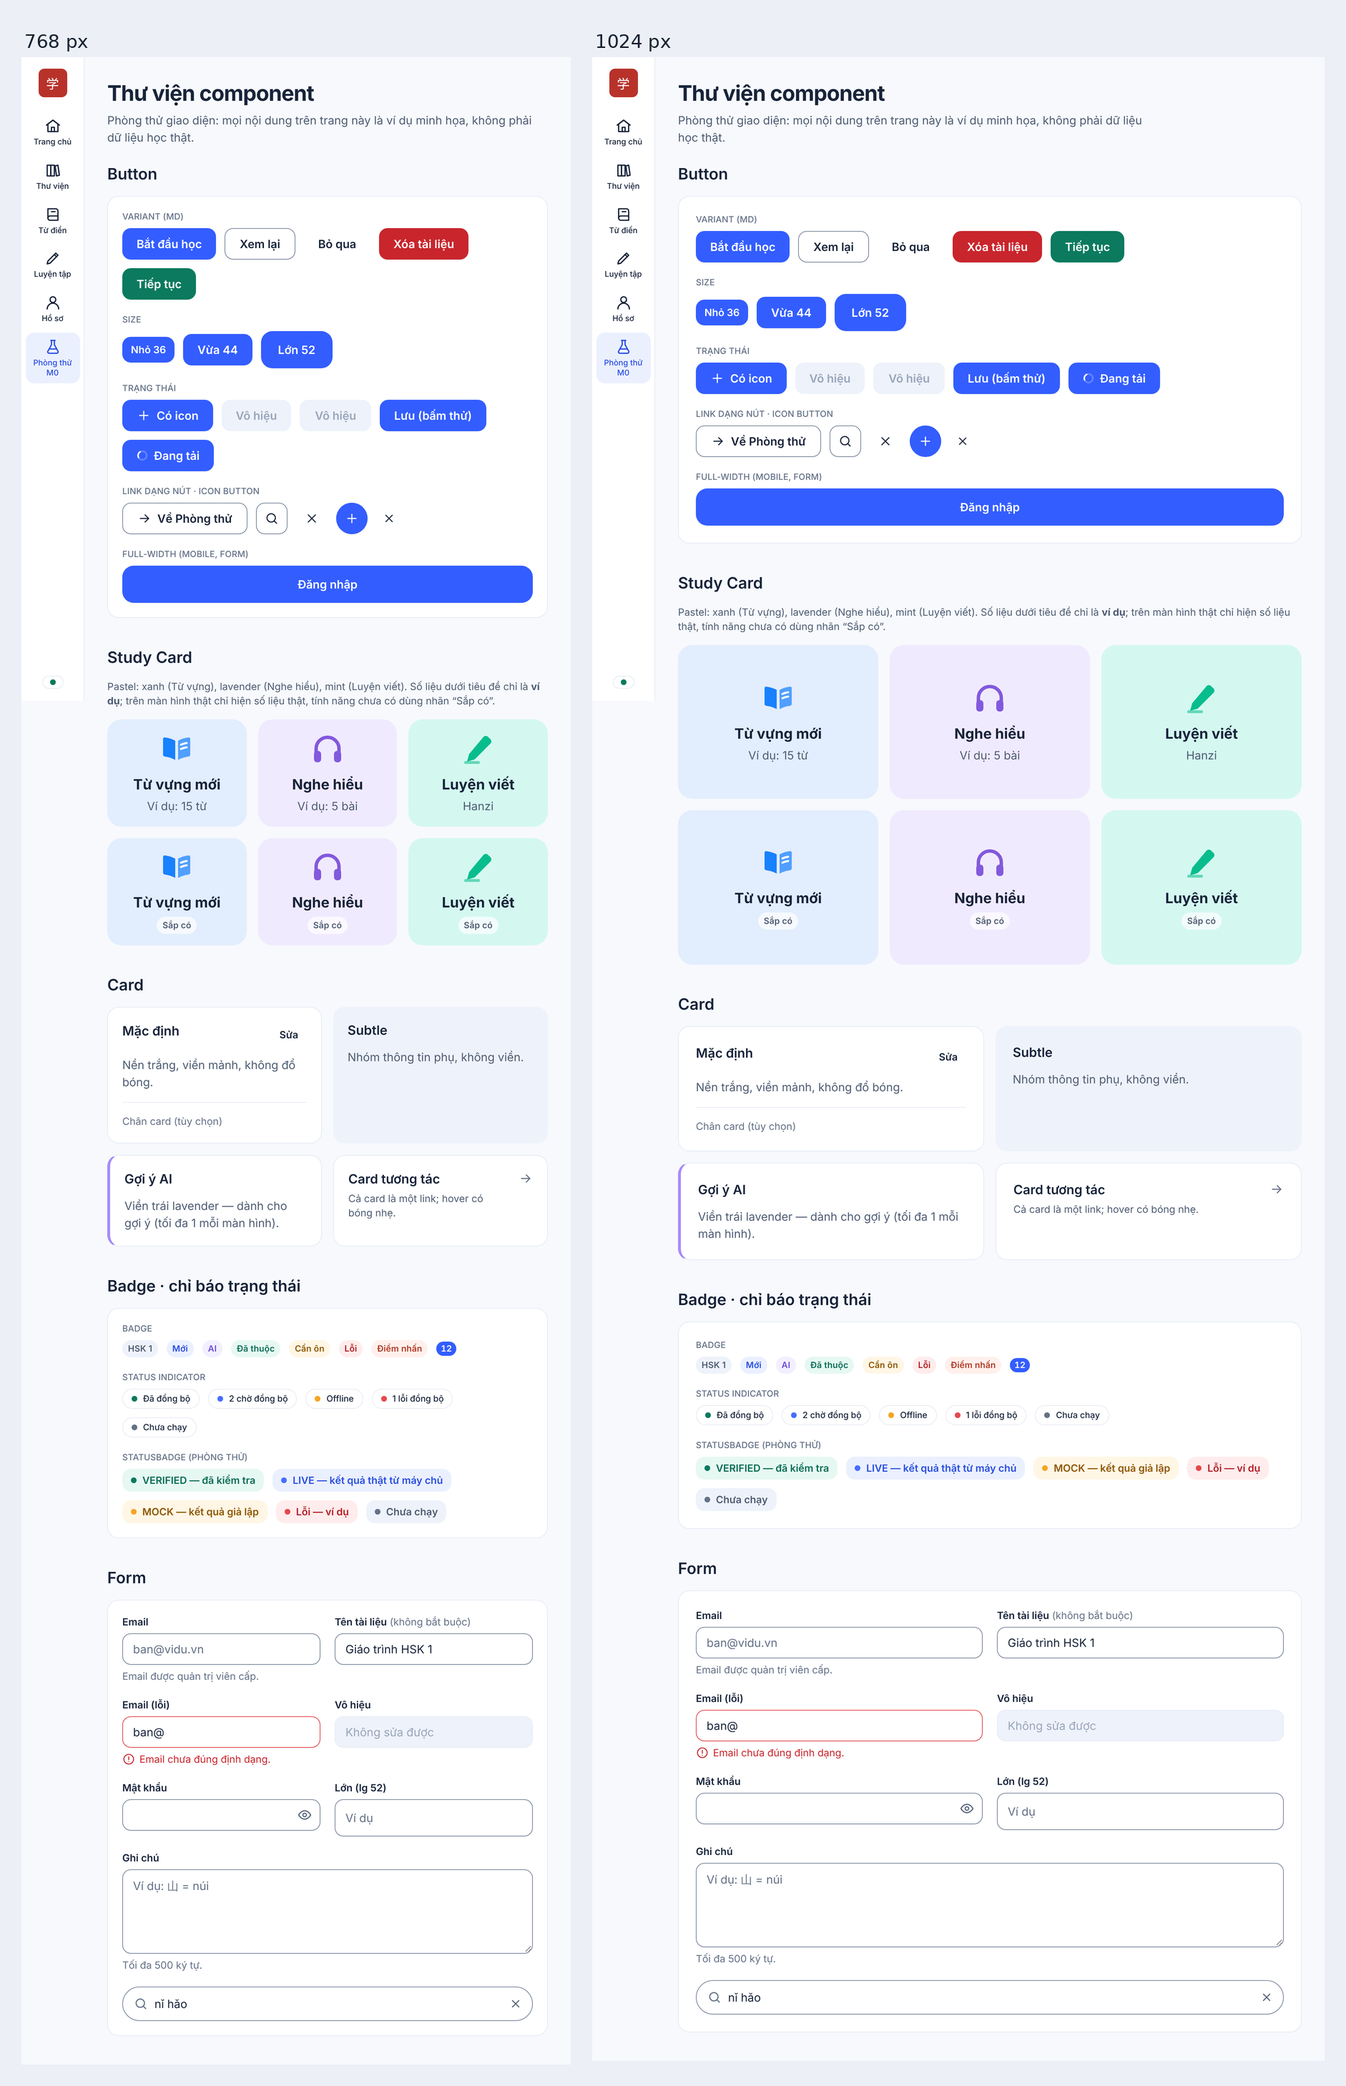
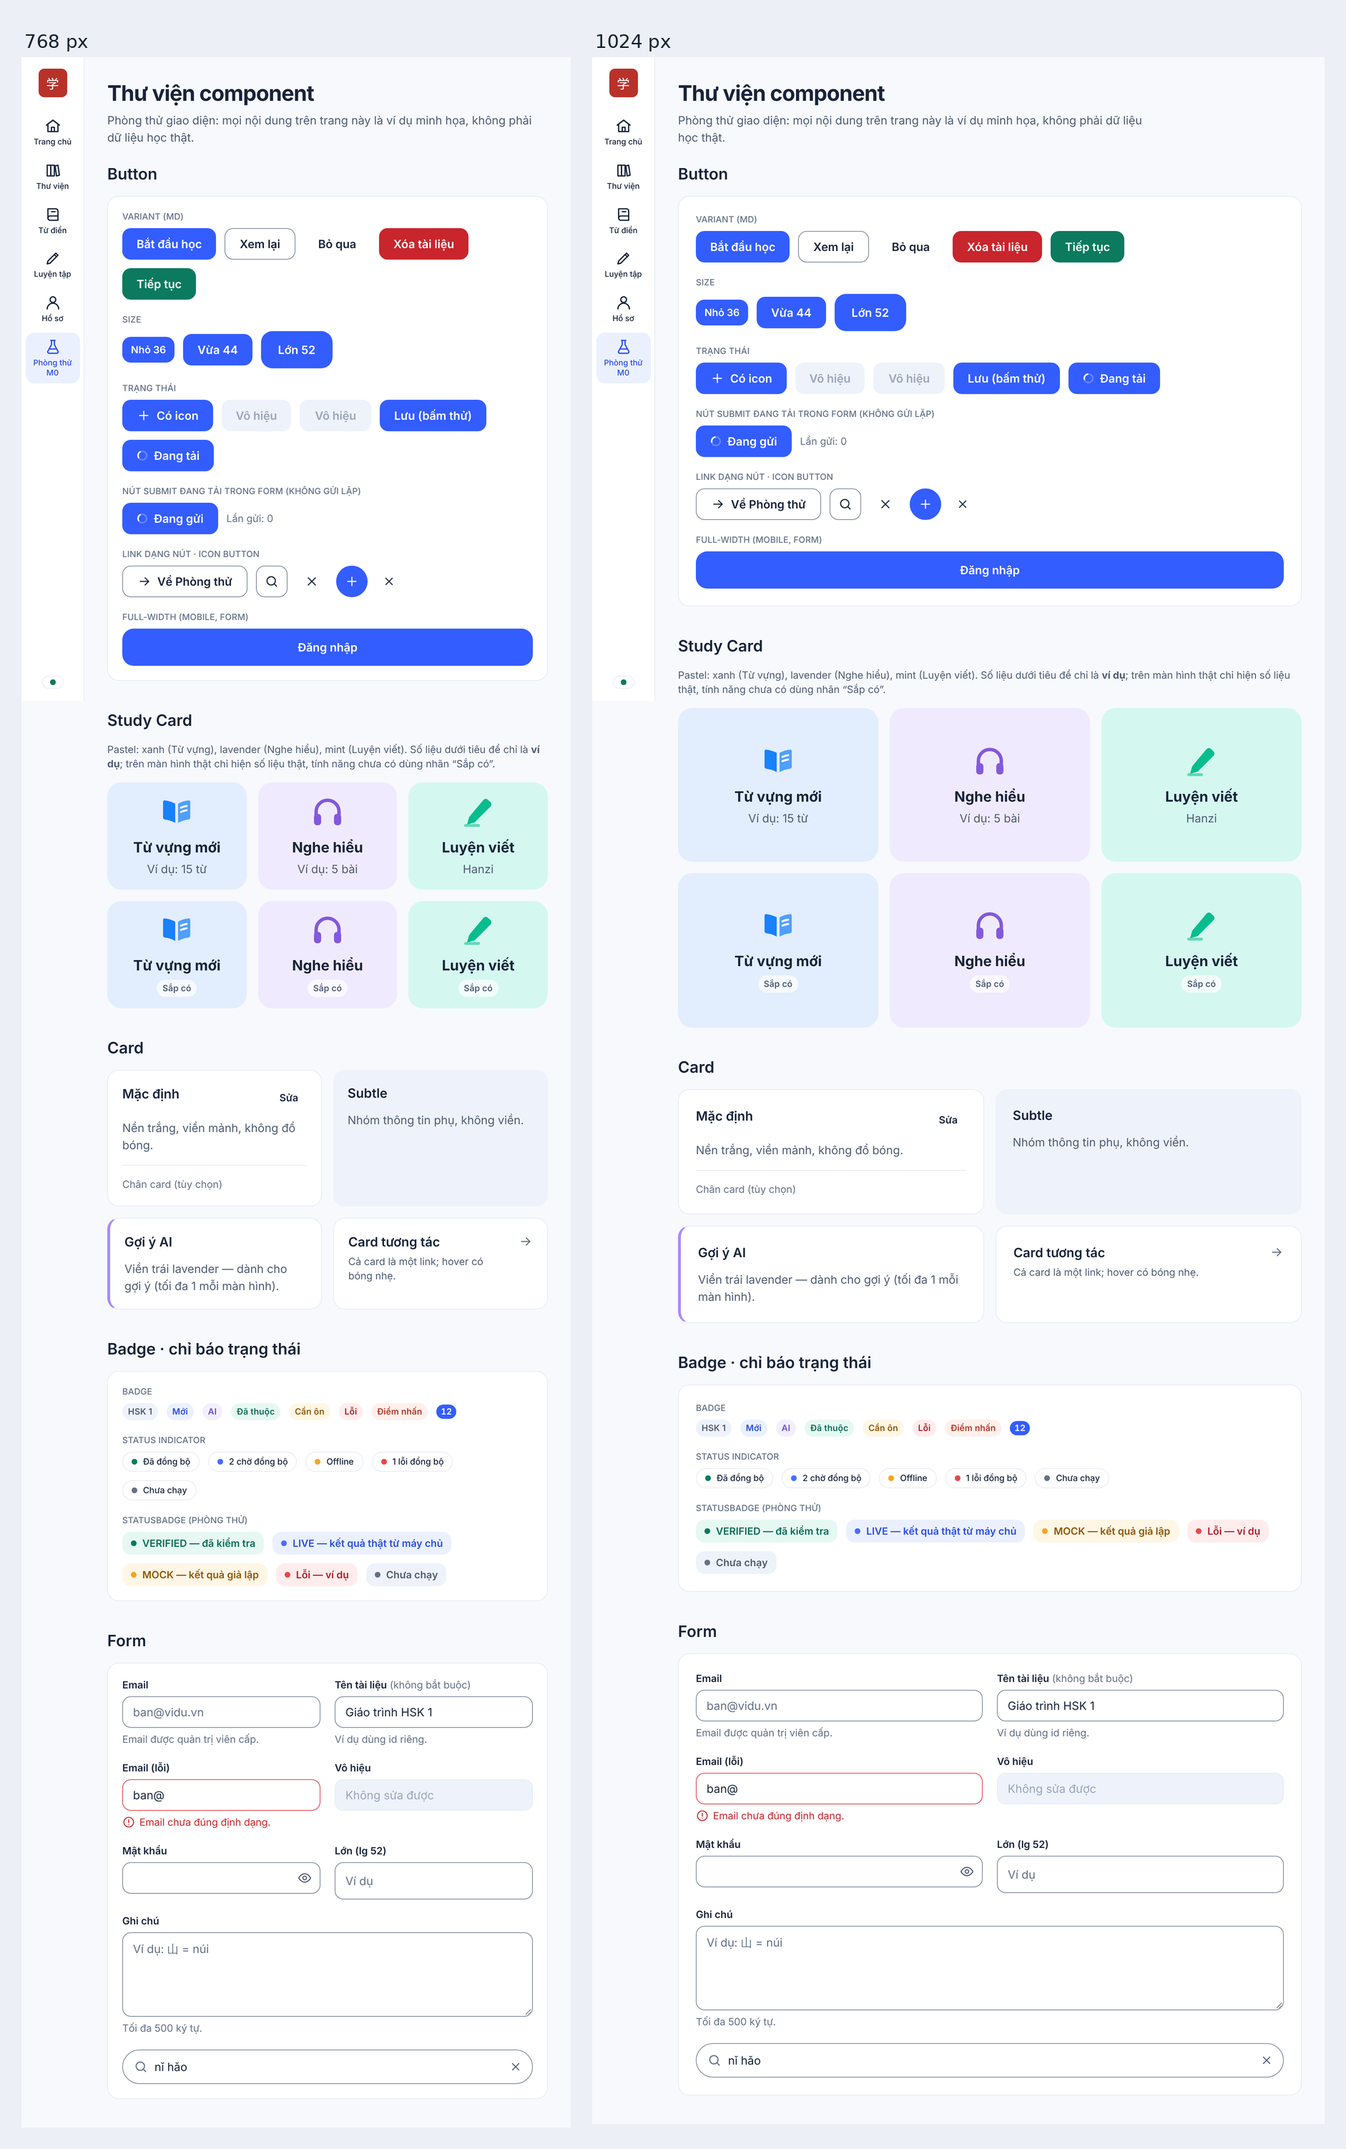
fix(web): UI-2 independent review — field ids, search focus, loading test, transitions
Important findings fixed (independent review of PR #5):
- I1 Field: a caller-provided id now wins in useFieldIds, so label htmlFor,
  hint/error ids and the password toggle's aria-controls stay linked.
- I2 SearchInput: clearing via the button returns focus to the input
  (the button unmounts); Escape also stops propagation (no dialog close).
- I3 Loading test could not fail: gallery counts clicks (data-clicks) and
  has a loading submit button in a form (data-submits); E2E asserts one
  handler run and zero submits by click/Enter/Space. Verified by mutation
  (removing the guard makes the test fail). Forced clicks are centred so
  the fixed phone bottom nav cannot intercept them.
- I4 Transitions list scale / translate (Tailwind 4 properties).
Minor: desktop must be hover-capable in the lavender test and shadow is
'none' before hover; exact accessible-name matches; icon stroke uses a
token; stale 'hồng' in UI_MIGRATION_PLAN; contrast pair label clarified.
Previews regenerated.

Claude-Session: https://claude.ai/code/session_013LqNKvrEyxwGX4BePDo76f

diff --git a/apps/web/e2e/ui2-primitives.spec.ts b/apps/web/e2e/ui2-primitives.spec.ts
@@ -87,13 +87,30 @@ test('buttons: focus ring on keyboard focus, disabled, loading blocks repeat', a
   await expect(page.getByTestId('btn-disabled')).toBeDisabled();
 
   const save = page.getByTestId('btn-loading');
+  await expect(save).toHaveAttribute('data-clicks', '0');
   await save.click();
   await expect(save).toHaveAttribute('aria-busy', 'true');
   await expect(save).toContainText('Đang lưu');
-  // Same width while loading (no layout jump) and a second click does not restart it.
+  await expect(save).toHaveAttribute('data-clicks', '1');
+  // A second click while loading must not run the handler again. Centre the button first: a
+  // forced click uses coordinates, and on phones the fixed bottom nav may cover the button.
+  await save.evaluate((el) => el.scrollIntoView({ block: 'center' }));
   await save.click({ force: true });
+  await expect(save).toHaveAttribute('data-clicks', '1');
   await expect(save).not.toHaveAttribute('aria-busy', 'true', { timeout: 4000 });
   await expect(save).toContainText('Lưu (bấm thử)');
+  await expect(save).toHaveAttribute('data-clicks', '1');
+
+  // A loading submit button never submits its form: not by click, not by Enter (implicit submit).
+  const form = page.getByTestId('loading-form');
+  const submit = page.getByTestId('btn-loading-submit');
+  await expect(submit).toHaveAttribute('aria-busy', 'true');
+  await submit.evaluate((el) => el.scrollIntoView({ block: 'center' }));
+  await submit.click({ force: true });
+  await submit.focus();
+  await page.keyboard.press('Enter');
+  await page.keyboard.press('Space');
+  await expect(form).toHaveAttribute('data-submits', '0');
 });
 
 test('form: label, hint and error are wired for assistive tech', async ({ page }) => {
@@ -105,6 +122,12 @@ test('form: label, hint and error are wired for assistive tech', async ({ page }
   const bad = page.getByTestId('field-error');
   await expect(bad).toHaveAttribute('aria-invalid', 'true');
   await expect(bad).toHaveAccessibleDescription('Email chưa đúng định dạng.');
+
+  // A caller-provided id is kept AND still linked to the label and the hint.
+  const own = page.locator('#ten-tai-lieu');
+  await expect(own).toHaveAccessibleName(/Tên tài liệu/);
+  await expect(own).toHaveAccessibleDescription('Ví dụ dùng id riêng.');
+  await expect(page.locator('label[for="ten-tai-lieu"]')).toHaveCount(1);
 
   // Font size ≥ 16 px so iOS does not zoom on focus.
   expect(
@@ -118,11 +141,11 @@ test('password input: show / hide toggle by mouse and keyboard', async ({ page }
   await expect(pw).toHaveAttribute('type', 'password');
   await expect(pw).toHaveAttribute('autocomplete', 'current-password');
   await pw.fill('mat-khau-vi-du');
-  const toggle = page.getByRole('button', { name: 'Hiện mật khẩu' });
+  const toggle = page.getByRole('button', { name: 'Hiện mật khẩu', exact: true });
   await expect(toggle).toHaveAttribute('aria-pressed', 'false');
   await toggle.click();
   await expect(pw).toHaveAttribute('type', 'text');
-  const hide = page.getByRole('button', { name: 'Ẩn mật khẩu' });
+  const hide = page.getByRole('button', { name: 'Ẩn mật khẩu', exact: true });
   await expect(hide).toHaveAttribute('aria-pressed', 'true');
   await hide.focus();
   await page.keyboard.press('Space');
@@ -135,8 +158,10 @@ test('search: clear button and Escape empty the field', async ({ page }) => {
   const search = page.getByTestId('field-search');
   await expect(search).toHaveAccessibleName('Tìm trong từ điển');
   await expect(search).toHaveValue('nǐ hǎo');
-  await page.getByRole('button', { name: 'Xóa nội dung tìm kiếm' }).click();
+  await page.getByRole('button', { name: 'Xóa nội dung tìm kiếm', exact: true }).click();
   await expect(search).toHaveValue('');
+  // The clear button disappears with the text; keyboard focus returns to the field.
+  await expect(search).toBeFocused();
   await search.fill('shān');
   await search.press('Escape');
   await expect(search).toHaveValue('');
@@ -175,7 +200,7 @@ test('study cards stay inside their grid at 320 px (no overlap / clipping)', asy
 
 test('study card "Nghe hiểu" is lavender: colours, hover, keyboard focus, coming soon', async ({
   page,
-}) => {
+}, testInfo) => {
   await open(page);
   const tile = page.getByTestId('study-lavender');
   await expect(tile).toHaveAccessibleName(/Nghe hiểu/);
@@ -186,7 +211,10 @@ test('study card "Nghe hiểu" is lavender: colours, hover, keyboard focus, comi
   expect(colours).toEqual({ bg: 'rgb(240, 234, 254)', icon: 'rgb(130, 89, 221)' });
 
   // Hover lift + shadow only where hover exists (Tailwind 4 `hover:` = @media (hover: hover)).
-  if (await page.evaluate(() => matchMedia('(hover: hover)').matches)) {
+  const hoverCapable = await page.evaluate(() => matchMedia('(hover: hover)').matches);
+  if (testInfo.project.name.endsWith('desktop')) expect(hoverCapable).toBe(true);
+  if (hoverCapable) {
+    expect(await tile.evaluate((el) => getComputedStyle(el).boxShadow)).toBe('none');
     await tile.hover();
     await expect.poll(() => tile.evaluate((el) => getComputedStyle(el).boxShadow)).not.toBe('none');
   }

diff --git a/apps/web/src/components/ui/Field.tsx b/apps/web/src/components/ui/Field.tsx
@@ -2,6 +2,7 @@
 
 import {
   useId,
+  useRef,
   useState,
   type InputHTMLAttributes,
   type ReactNode,
@@ -33,8 +34,10 @@ export const controlClasses =
   'disabled:cursor-not-allowed disabled:border-line disabled:bg-[var(--state-disabled-bg)] disabled:text-fg-disabled disabled:shadow-none ' +
   'read-only:bg-sunken';
 
-function useFieldIds(hint: unknown, error: unknown, describedBy?: string) {
-  const id = useId();
+function useFieldIds(hint: unknown, error: unknown, describedBy?: string, ownId?: string) {
+  // A caller-provided id wins, so <label htmlFor>, hint/error ids and aria-controls stay linked.
+  const generated = useId();
+  const id = ownId ?? generated;
   const hintId = hint ? `${id}-hint` : undefined;
   const errorId = error ? `${id}-error` : undefined;
   const ids = [describedBy, hintId, errorId].filter(Boolean).join(' ') || undefined;
@@ -94,12 +97,12 @@ export function Input({
   'aria-describedby': extra,
   ...props
 }: InputProps) {
-  const f = useFieldIds(hint, error, extra);
+  const f = useFieldIds(hint, error, extra, props.id);
   return (
     <FieldFrame {...{ label, hint, error, hideLabel, optional, className }} {...f}>
       <input
-        id={f.id}
         {...props}
+        id={f.id}
         aria-invalid={error ? true : props['aria-invalid']}
         aria-describedby={f.describedBy}
         className={`${controlClasses} ${size === 'lg' ? 'h-13' : 'h-11'}`}
@@ -119,13 +122,13 @@ export function Textarea({
   'aria-describedby': extra,
   ...props
 }: FieldProps & TextareaHTMLAttributes<HTMLTextAreaElement>) {
-  const f = useFieldIds(hint, error, extra);
+  const f = useFieldIds(hint, error, extra, props.id);
   return (
     <FieldFrame {...{ label, hint, error, hideLabel, optional, className }} {...f}>
       <textarea
-        id={f.id}
         rows={rows}
         {...props}
+        id={f.id}
         aria-invalid={error ? true : props['aria-invalid']}
         aria-describedby={f.describedBy}
         className={`${controlClasses} min-h-24 resize-y py-2.5 leading-6`}
@@ -148,16 +151,16 @@ export function PasswordInput({
   'aria-describedby': extra,
   ...props
 }: FieldProps & Omit<InputHTMLAttributes<HTMLInputElement>, 'type' | 'size'>) {
-  const f = useFieldIds(hint, error, extra);
+  const f = useFieldIds(hint, error, extra, props.id);
   const [visible, setVisible] = useState(false);
   return (
     <FieldFrame {...{ label, hint, error, hideLabel, optional, className }} {...f}>
       <div className="relative">
         <input
-          id={f.id}
           autoCapitalize="none"
           spellCheck={false}
           {...props}
+          id={f.id}
           type={visible ? 'text' : 'password'}
           aria-invalid={error ? true : props['aria-invalid']}
           aria-describedby={f.describedBy}
@@ -194,7 +197,8 @@ export function SearchInput({
     value: string;
     onValueChange: (value: string) => void;
   }) {
-  const f = useFieldIds(hint, undefined, extra);
+  const f = useFieldIds(hint, undefined, extra, props.id);
+  const inputRef = useRef<HTMLInputElement>(null);
   return (
     <FieldFrame {...{ label, hint, hideLabel, className }} {...f}>
       <div className="relative">
@@ -204,16 +208,18 @@ export function SearchInput({
           className="pointer-events-none absolute left-4 top-1/2 -translate-y-1/2 text-fg-subtle"
         />
         <input
-          id={f.id}
+          ref={inputRef}
           type="search"
           enterKeyHint="search"
           autoComplete="off"
           {...props}
+          id={f.id}
           value={value}
           onChange={(e) => onValueChange(e.target.value)}
           onKeyDown={(e) => {
             if (e.key === 'Escape' && value) {
               e.preventDefault();
+              e.stopPropagation(); // one Escape clears the field, it does not also close a dialog
               onValueChange('');
             }
             props.onKeyDown?.(e);
@@ -224,7 +230,11 @@ export function SearchInput({
         {value && (
           <button
             type="button"
-            onClick={() => onValueChange('')}
+            onClick={() => {
+              onValueChange('');
+              // The button unmounts once the field is empty: keep keyboard focus in the field.
+              inputRef.current?.focus();
+            }}
             aria-label="Xóa nội dung tìm kiếm"
             className="absolute right-0.5 top-1/2 flex size-11 -translate-y-1/2 items-center justify-center rounded-full text-fg-muted hover:bg-[var(--state-hover)] hover:text-fg"
           >

diff --git a/apps/web/app/lab/design/page.tsx b/apps/web/app/lab/design/page.tsx
@@ -46,6 +46,8 @@ function Row({ label, children }: { label: string; children: ReactNode }) {
 export default function DesignGallery() {
   const [query, setQuery] = useState('nǐ hǎo');
   const [saving, setSaving] = useState(false);
+  const [clicks, setClicks] = useState(0);
+  const [submits, setSubmits] = useState(0);
 
   return (
     <>
@@ -80,7 +82,9 @@ export default function DesignGallery() {
                 <Button
                   loading={saving}
                   data-testid="btn-loading"
+                  data-clicks={clicks}
                   onClick={() => {
+                    setClicks((n) => n + 1);
                     setSaving(true);
                     setTimeout(() => setSaving(false), 1500);
                   }}
@@ -88,6 +92,22 @@ export default function DesignGallery() {
                   {saving ? 'Đang lưu…' : 'Lưu (bấm thử)'}
                 </Button>
                 <Button loading>Đang tải</Button>
+              </Row>
+              <Row label="Nút submit đang tải trong form (không gửi lặp)">
+                <form
+                  data-testid="loading-form"
+                  data-submits={submits}
+                  onSubmit={(e) => {
+                    e.preventDefault();
+                    setSubmits((n) => n + 1);
+                  }}
+                  className="flex flex-wrap items-center gap-3"
+                >
+                  <Button type="submit" loading data-testid="btn-loading-submit">
+                    Đang gửi
+                  </Button>
+                  <span className="text-sm text-fg-subtle">Lần gửi: {submits}</span>
+                </form>
               </Row>
               <Row label="Link dạng nút · Icon button">
                 <ButtonLink
@@ -238,7 +258,13 @@ export default function DesignGallery() {
                 hint="Email được quản trị viên cấp."
                 data-testid="field-email"
               />
-              <Input label="Tên tài liệu" defaultValue="Giáo trình HSK 1" optional />
+              <Input
+                id="ten-tai-lieu"
+                label="Tên tài liệu"
+                defaultValue="Giáo trình HSK 1"
+                hint="Ví dụ dùng id riêng."
+                optional
+              />
               <Input
                 label="Email (lỗi)"
                 type="email"

diff --git a/apps/web/src/components/ui/Button.tsx b/apps/web/src/components/ui/Button.tsx
@@ -26,7 +26,7 @@ const SIZE: Record<ButtonSize, string> = {
 
 const BASE =
   'inline-flex shrink-0 select-none items-center justify-center whitespace-nowrap font-semibold ' +
-  'transition-[background-color,box-shadow,transform] duration-[var(--duration-fast)] ease-[var(--ease-standard)] ' +
+  'transition-[background-color,box-shadow,scale] duration-[var(--duration-fast)] ease-[var(--ease-standard)] ' +
   'active:scale-[0.98] motion-reduce:active:scale-100 ' +
   'disabled:pointer-events-none disabled:border-transparent disabled:bg-[var(--state-disabled-bg)] disabled:text-fg-disabled disabled:shadow-none ' +
   'aria-disabled:pointer-events-none aria-disabled:bg-[var(--state-disabled-bg)] aria-disabled:text-fg-disabled aria-disabled:shadow-none';

diff --git a/apps/web/src/components/ui/Card.tsx b/apps/web/src/components/ui/Card.tsx
@@ -186,7 +186,7 @@ export function StudyCard({
       <Link
         href={href}
         {...rest}
-        className={`${cls} transition-[box-shadow,transform] duration-[var(--duration-fast)] ease-[var(--ease-standard)] hover:-translate-y-0.5 hover:shadow-md active:translate-y-0 motion-reduce:hover:translate-y-0`}
+        className={`${cls} transition-[box-shadow,translate] duration-[var(--duration-fast)] ease-[var(--ease-standard)] hover:-translate-y-0.5 hover:shadow-md active:translate-y-0 motion-reduce:hover:translate-y-0`}
       >
         {body}
       </Link>

diff --git a/apps/web/src/components/icons.tsx b/apps/web/src/components/icons.tsx
@@ -106,7 +106,7 @@ export const BookOpenFilledIcon = (p: SVGProps<SVGSVGElement>) => (
     />
     <path
       d="M15 9.2c1.3-.6 2.6-1 4-1.2M15 12.2c1.3-.6 2.6-1 4-1.2"
-      stroke="#fff"
+      stroke="var(--surface-default)"
       strokeWidth="1.4"
       strokeLinecap="round"
     />

diff --git a/docs/design/UI_MIGRATION_PLAN.md b/docs/design/UI_MIGRATION_PLAN.md
@@ -173,7 +173,7 @@ Quy tắc cho mọi PR UI: phạm vi rõ, checklist QC (mục 8) và kết quả
 
 - `src/components/ui/`:
   - `Button` (primary / secondary / ghost / danger / success; sm 36 có vùng chạm 44, md 44, lg 52; hover, focus-visible, disabled, loading có spinner + `aria-busy` + chặn bấm lặp), `ButtonLink`, `IconButton` (bắt buộc `aria-label`).
-  - `Card` (default / subtle / highlight, có `title`, `action`, `footer`), `CardLink` (cả card là một link), **`StudyCard`** (pastel xanh / hồng / mint đo từ hình tham chiếu; chỉ nhận số liệu thật qua `meta`, tính năng chưa có dùng `comingSoon` → nhãn "Sắp có", không bấm được).
+  - `Card` (default / subtle / highlight, có `title`, `action`, `footer`), `CardLink` (cả card là một link), **`StudyCard`** (pastel xanh / lavender / mint — "Nghe hiểu" = lavender theo quyết định của chủ dự án; chỉ nhận số liệu thật qua `meta`, tính năng chưa có dùng `comingSoon` → nhãn "Sắp có", không bấm được).
   - `Badge` (7 biến thể), `CountBadge`, `StatusDot` (chỉ báo trạng thái chấm + chữ); `StatusBadge` dùng cùng token (giữ `role`, `data-status`, chữ của M0).
   - Form: `Input`, `Textarea`, `PasswordInput` (hiện/ẩn, `aria-pressed`), `SearchInput` (pill 48, nút xóa, `Esc`); nhãn luôn hiển thị, gợi ý/lỗi nối bằng `aria-describedby`, lỗi có `aria-invalid`.
 - `ui.tsx` giữ API M0 (`Card title`, `Button variant="ghost"` → `secondary`) nên các màn hình M0 không phải sửa.
